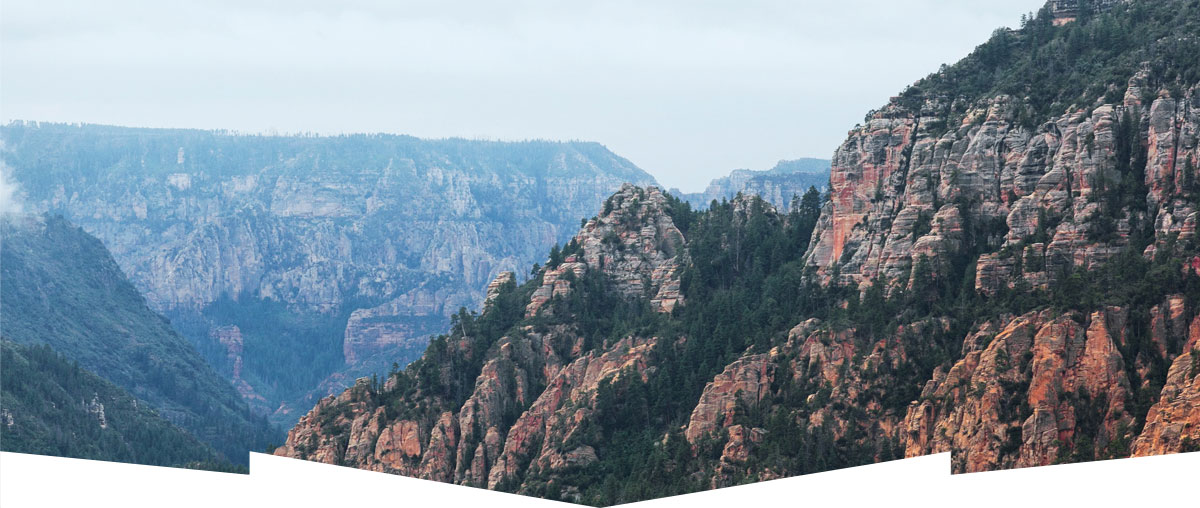
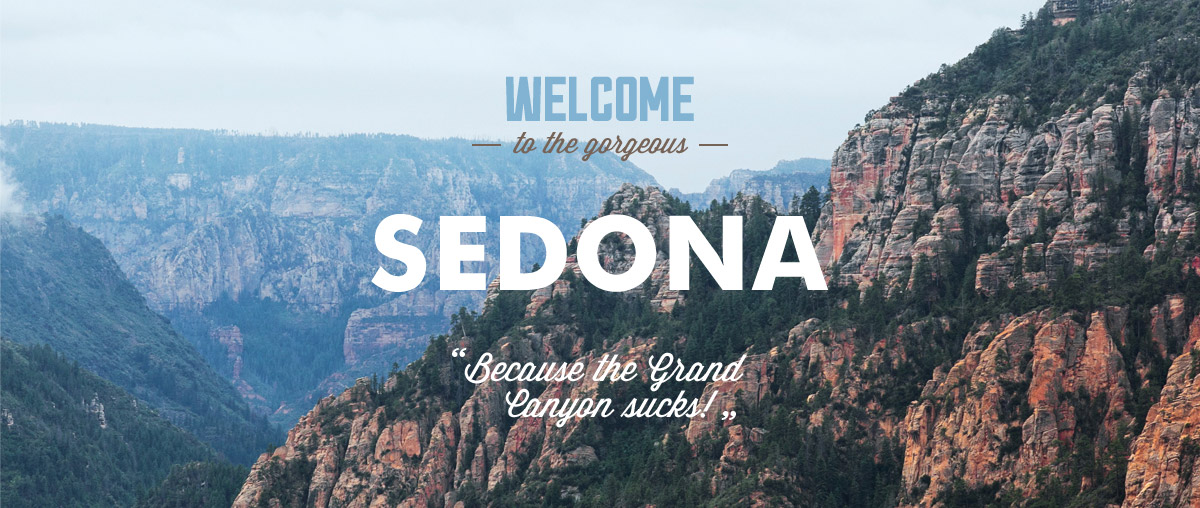
Правки по первому дз

diff --git a/hotels.html b/hotels.html
@@ -8,29 +8,25 @@
   </head>
   <body>
     <header class="main-header">
-      <div class="container">
-        <nav class="main-navigation">
-          <ul class="nav-left">
-            <li>
-              <a href="#">Информация</a>
-            </li>
-            <li>
-              <a href="#">Фото и видео</a>
-            </li>
-          </ul>
-          <ul class="nav-right">
-            <li>
-              <a href="#">Карта штата</a>
-            </li>
-            <li>
-              <a href="#">Гостиницы</a>
-            </li>
-          </ul>
-          <a class="logo" href="index.html">
-            <img src="img/main-logo.png" width="138" height="70" alt="Главная страница">
-          </a>
-        </nav>
-      </div>
+      <nav class="main-navigation">
+        <ul>
+          <li>
+            <a href="#">Информация</a>
+          </li>
+          <li>
+            <a href="#">Фото и видео</a>
+          </li>
+          <li>
+            <a href="#">Карта штата</a>
+          </li>
+          <li>
+            <a href="#">Гостиницы</a>
+          </li>
+        </ul>
+        <a class="logo" href="index.html">
+          <img src="img/main-logo.png" width="138" height="70" alt="Главная страница">
+        </a>
+      </nav>
     </header>
     <main class="container">
       <div class="filter">
@@ -66,9 +62,9 @@
             </label>
           </fieldset>
           <div class="price">
-            <span>
+            <div>
               Стоимость в сутки (Р):
-            </span>
+            </div>
             <input type="text" name="min-price" value="от 0">
             <input type="text" name="max-price" value="до 3000">
             <div class="slider">
@@ -82,137 +78,152 @@
                 <div class="line-active"></div>
               </div>
             </div>
-            <a href="#" class="btn" type="submit">
+            <button class="btn" type="submit">
               Показать
-            </a>
+            </button>
           </div>
         </form>
         <img src="img/filter-background.jpg" width="1200" height="217" alt="background">
       </div>
-      <div class="results">
-        <div class="sort">
-          <ul>
-            <li>
-              Найдено: 3
-            </li>
-            <li>
-              Сортировка:
-            </li>
-            <li>
-              <a href="#">
-                По цене
-              </a>
-            </li>
-            <li>
-              <a href="#">
-                По типу
-              </a>
-            </li>
-            <li>
-              <a href="#">
-                По рейтингу
-              </a>
-            </li>
-          </ul>
+      <div class="sort">
+        <ul>
+          <li>
+            Найдено: 3
+          </li>
+          <li>
+            Сортировка:
+          </li>
+          <li>
+            <a href="#">
+              По цене
+            </a>
+          </li>
+          <li>
+            <a href="#">
+              По типу
+            </a>
+          </li>
+          <li>
+            <a href="#">
+              По рейтингу
+            </a>
+          </li>
+        </ul>
+        <div class="sort-priority">
           <a class="sort-up" href="#">
-            <img src="img/sort-icon.png" width="34" height="11" alt="Сортировка по возрастанию">
+            <img src="img/sort-icon-up.png" width="11" height="10" alt="">
+          </a>
+          <a class="sort-down" href="#">
+            <img src="img/sort-icon-down.png" width="11" height="10" alt="">
           </a>
         </div>
+      </div>
+      <div class="results">
         <div class="result">
           <img src="img/prew1.jpg" width="135" height="90" alt="hotel-1">
-          <div class="container">
-            <span class="hotel-name">
+          <div class="result-content">
+            <div class="hotel-name">
               Amara Resort & Spa
-            </span>
-            <ul>
-              <li>
+            </div>
+            <div class="cost">
+              <div class="type">
                 Гостинница
-              </li>
-              <li>
+              </div>
+              <div class="type">
                 от 3500 р.
-              </li>
-            </ul>
-            <a class="more" href="#">
-              Подробнее
-            </a>
-            <a class="buy" href="#">
-              Забронировать
-            </a>
+              </div>
+            </div>
+            <div class="cta">
+              <a class="more" href="#">
+                Подробнее
+              </a>
+              <a class="buy" href="#">
+                Забронировать
+              </a>
+            </div>
           </div>
-          <img class="stars" src="img/stars1.png" width="89" height="17" alt="4 stars">
-          <span class="rate">
+          <div class="stars-1">
+            <img src="img/star.png" width="18" height="18" alt="star">
+          </div>
+          <div class="rate">
             Рейтинг: 8,5
-          </span>
+          </div>
         </div>
         <div class="result">
           <img src="img/prew2.jpg" width="135" height="90" alt="hotel-2">
-          <div class="container">
-            <span class="hotel-name">
+          <div class="result-content">
+            <div class="hotel-name">
               Desert Quail Inn
-            </span>
-            <ul>
-              <li>
+            </div>
+            <div class="cost">
+              <div class="type">
                 Мотель
-              </li>
-              <li>
+              </div>
+              <div class="type">
                 от 2000 р.
-              </li>
-            </ul>
-            <a class="more" href="#">
-              Подробнее
-            </a>
-            <a class="buy" href="#">
-              Забронировать
-            </a>
+              </div>
+            </div>
+            <div class="cta">
+              <a class="more" href="#">
+                Подробнее
+              </a>
+              <a class="buy" href="#">
+                Забронировать
+              </a>
+            </div>
           </div>
-          <img class="stars" src="img/stars2.png" width="42" height="17" alt="2 stars">
-          <span class="rate">
+          <div class="stars-2">
+            <img src="img/star.png" width="18" height="18" alt="star">
+          </div>
+          <div class="rate">
             Рейтинг: 8,9
-          </span>
+          </div>
         </div>
         <div class="result">
           <img src="img/prew3.jpg" width="135" height="90" alt="hotel-3">
-          <div class="container">
-            <span class="hotel-name">
+          <div class="result-content">
+            <div class="hotel-name">
               Villas at Poco Diablo
-            </span>
-            <ul>
-              <li>
+            </div>
+            <div class="cost">
+              <div class="type">
                 Апартаменты
-              </li>
-              <li>
+              </div>
+              <div class="type">
                 от 4000 р.
-              </li>
-            </ul>
-            <a class="more" href="#">
-              Подробнее
-            </a>
-            <a class="buy" href="#">
-              Забронировать
-            </a>
+              </div>
+            </div>
+            <div class="cta">
+              <a class="more" href="#">
+                Подробнее
+              </a>
+              <a class="buy" href="#">
+                Забронировать
+              </a>
+            </div>
           </div>
-          <img class="stars" src="img/stars3.png" width="65" height="17" alt="3 stars">
-          <span class="rate">
-            Рейтинг: 9,2
-          </span>
+          <div class="stars-3">
+            <img src="img/star.png" width="18" height="18" alt="star">
+          </div>
+          <div class="rate">
+            Рейтинг: 8,5
+          </div>
         </div>
       </div>
     </main>
     <footer class="main-footer">
-      <div class="container">
-        <span class="hashtag">
-          #visitsedona
-        </span>
-        <div class="footer-social">
-          <a class="social-btn social-btn-twitter" href="#" target="_blank">Твиттер</a>
-          <a class="social-btn social-btn-facebook" href="#" target="_blank">Фейсбук</a>
-          <a class="social-btn social-btn-youtube" href="#" target="_blank">Ютуб</a>
-        </div>
-        <div class="footer-logo">
-          <a href="https://htmlacademy.ru/" target="_blank">
-            <img src="img/html-academy-logo.png" width="198" height="39" alt="Html Academy логотип">
-          </a>
-        </div>
+      <div class="hashtag">
+        #visitsedona
+      </div>
+      <div class="footer-social">
+        <a class="social-btn social-btn-twitter" href="#" target="_blank">Твиттер</a>
+        <a class="social-btn social-btn-facebook" href="#" target="_blank">Фейсбук</a>
+        <a class="social-btn social-btn-youtube" href="#" target="_blank">Ютуб</a>
+      </div>
+      <div class="footer-logo">
+        <a href="https://htmlacademy.ru/" target="_blank">
+          <img src="img/html-academy-logo.png" width="198" height="39" alt="Html Academy логотип">
+        </a>
       </div>
     </footer>
   </body>

diff --git a/index.html b/index.html
@@ -35,7 +35,7 @@
     <main class="container">
       <div class="main-banner">
         <img src="img/background.jpg" width="1200" height="508" alt="Природа Седоны">
-        <img src="img/tagline.png" width="458" height="352" alt="Седона">
+        <img src="img/shape.png" width="1200" height="57" alt="">
       </div>
       <div class="feautures">
         <div class="feautures-header">
@@ -50,7 +50,7 @@
           </div>
           <img src="img/feautures-1.jpg" width="800" height="256" alt="Городской пейзаж Седоны">
         </div>
-        <div class="feautures-block-white">
+        <div class="feautures-block-top">
           <div class="feautures-item">
             <img src="img/icon-home.png" width="80" height="80" alt="Домик">
             <h3>Жилье</h3>
@@ -75,7 +75,7 @@
             <p>Да, По нему можно пройти! Если конечно вы осмелитесь</p>
           </div>
         </div>
-        <div class="feautures-block-grey">
+        <div class="feautures-block-bot">
           <div class="feautures-item">
             <h3>Небольшая площадь</h3>
             <p>- №3 -</p>
@@ -95,8 +95,10 @@
       </div>
       <div class="search-block">
         <h2>Заинтересовались?</h2>
-        <p>Укажите предпологаемые даты поездки, и мы покажем вам лучшие предложения гостинниц в Седоне.</p>
-        <button class="show-search-form" type="button">Поиск гостинницы в Седоне</button>
+        <div>
+          Укажите предпологаемые даты поездки, и мы покажем вам лучшие предложения гостинниц в Седоне.
+        </div>
+        <a href="#" class="show-search-form">Поиск гостинницы в Седоне</a>
         <form class="search-form" action="#" method="post">
           <p>
             <label>
